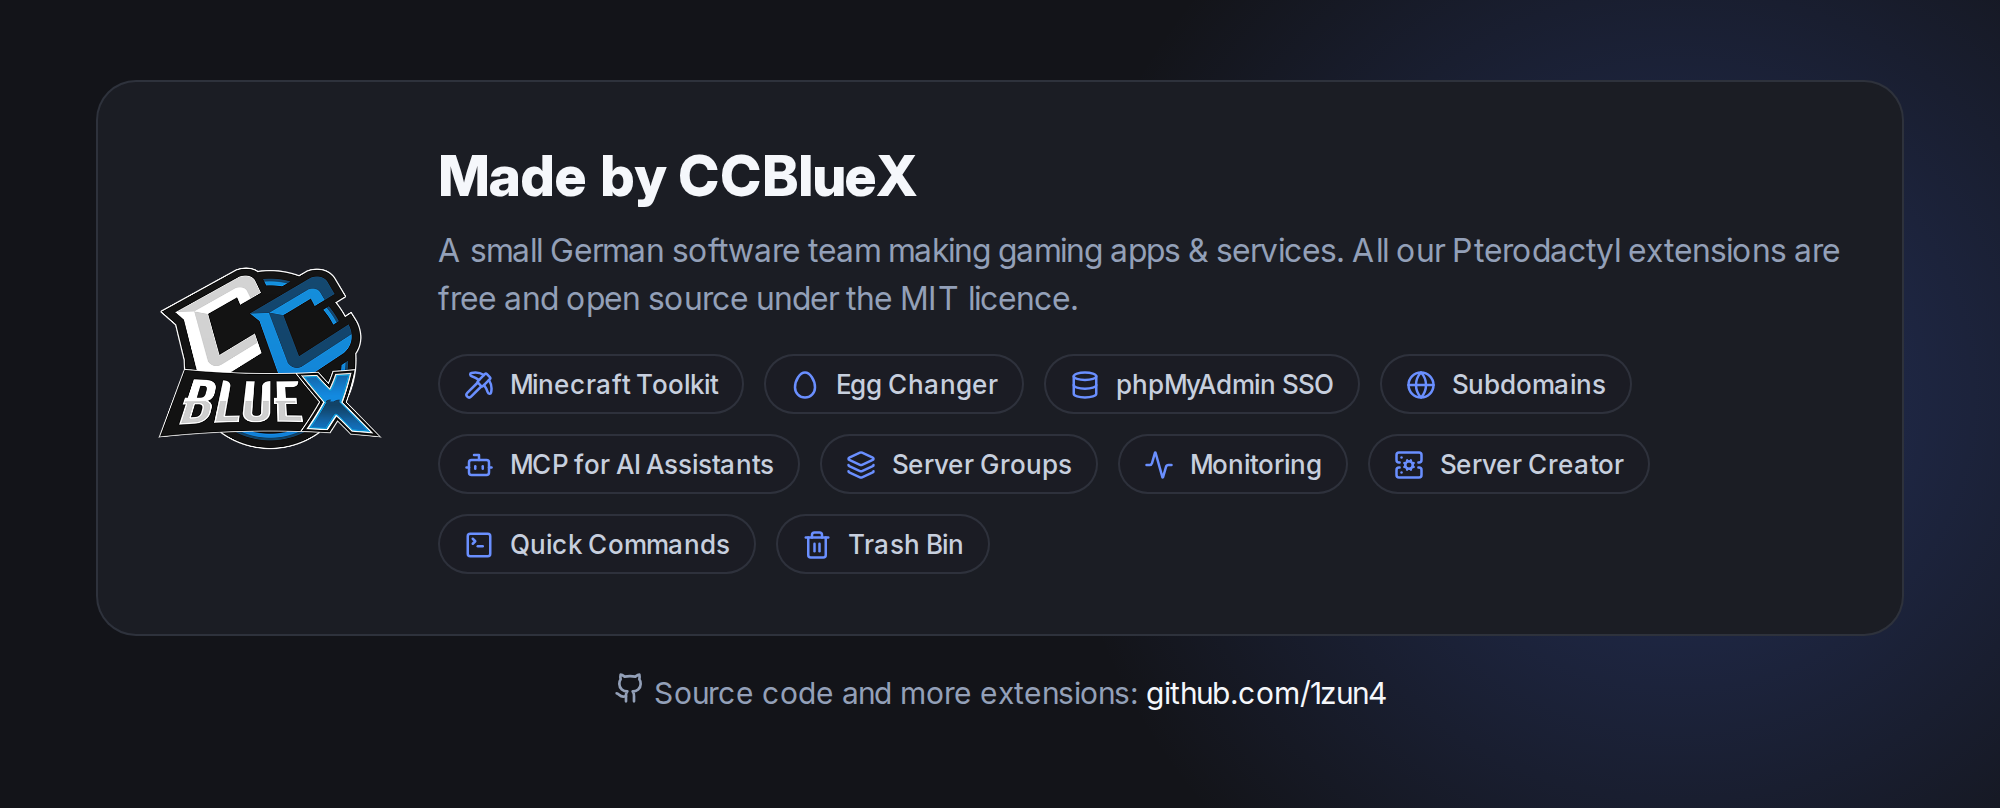
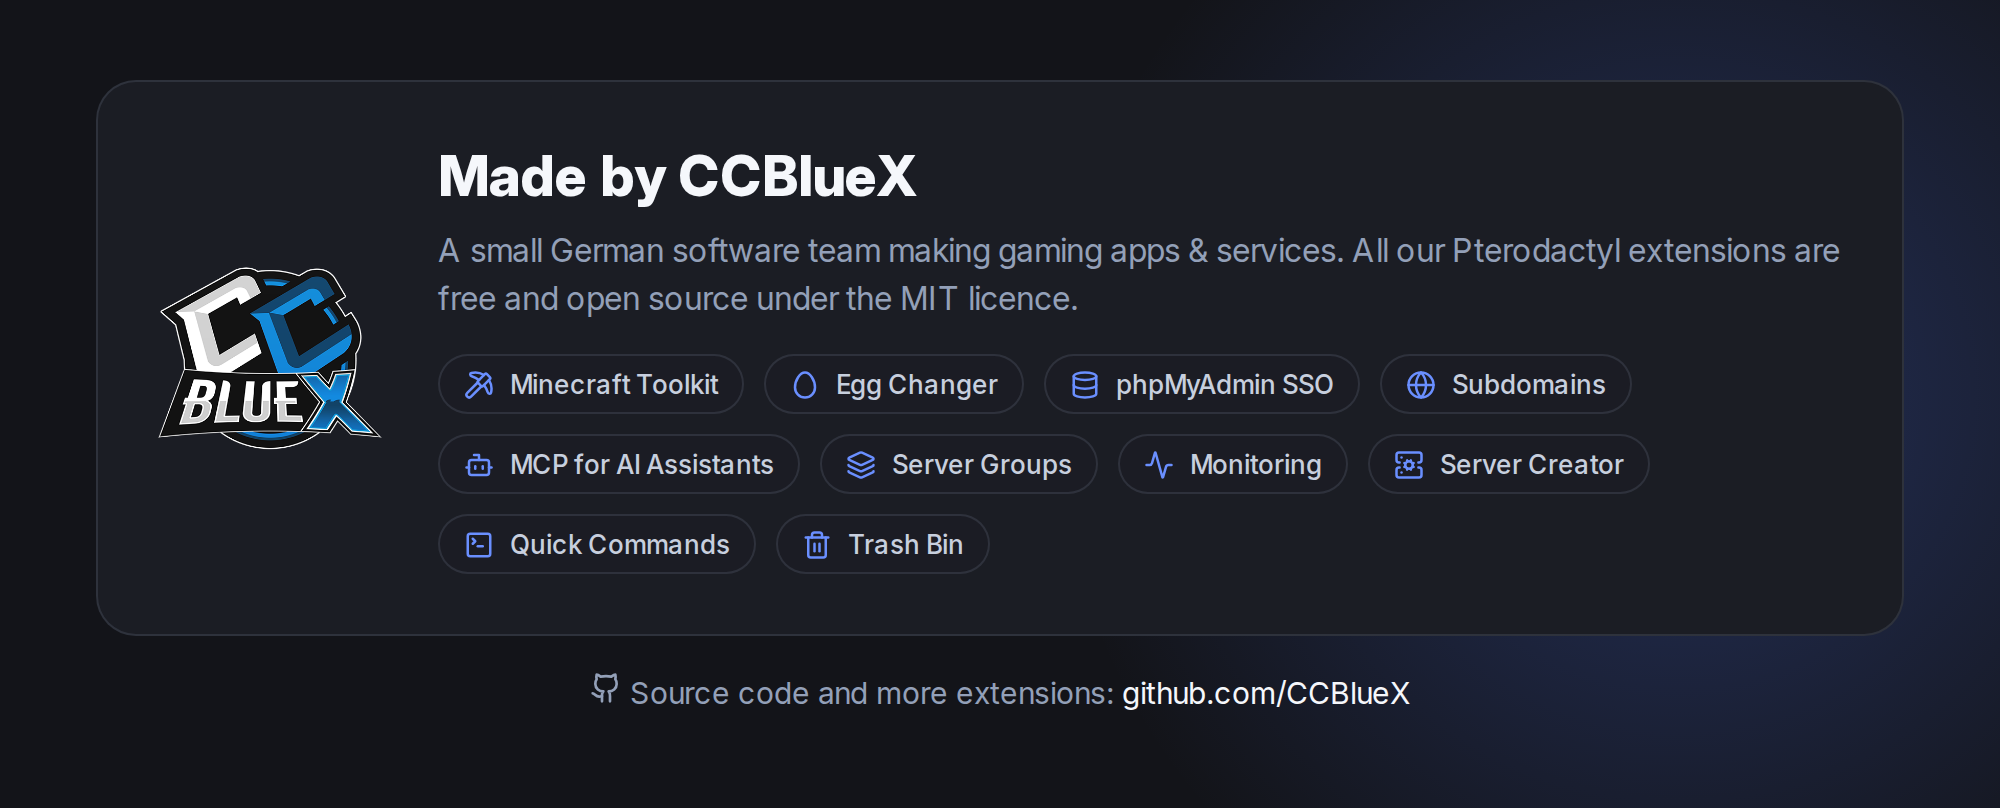
docs: move to ccbluex and hide node hostnames

Changed region(s): [[0.279, 0.8354, 0.713, 0.8973]]

diff --git a/src/Sources/Api.php b/src/Sources/Api.php
@@ -15,7 +15,7 @@ use RuntimeException;
  */
 final class Api
 {
-    public const string USER_AGENT = '1zun4/Pterodactyl-Extension-Minecraft-Content (github.com/1zun4/Pterodactyl-Extension-Minecraft-Content)';
+    public const string USER_AGENT = 'CCBlueX/Pterodactyl-Extension-Minecraft-Content (github.com/CCBlueX/Pterodactyl-Extension-Minecraft-Content)';
 
     /**
      * @param  array<string, mixed>  $query

diff --git a/README.md b/README.md
@@ -1,9 +1,9 @@
 # Minecraft Content for Pterodactyl
 
-[![Release](https://img.shields.io/github/v/release/1zun4/Pterodactyl-Extension-Minecraft-Content?style=flat-square)](https://github.com/1zun4/Pterodactyl-Extension-Minecraft-Content/releases/latest)
-[![Downloads](https://img.shields.io/github/downloads/1zun4/Pterodactyl-Extension-Minecraft-Content/total?style=flat-square)](https://github.com/1zun4/Pterodactyl-Extension-Minecraft-Content/releases)
+[![Release](https://img.shields.io/github/v/release/CCBlueX/Pterodactyl-Extension-Minecraft-Content?style=flat-square)](https://github.com/CCBlueX/Pterodactyl-Extension-Minecraft-Content/releases/latest)
+[![Downloads](https://img.shields.io/github/downloads/CCBlueX/Pterodactyl-Extension-Minecraft-Content/total?style=flat-square)](https://github.com/CCBlueX/Pterodactyl-Extension-Minecraft-Content/releases)
 [![Pterodactyl](https://img.shields.io/badge/Pterodactyl-2.0-0e4688?style=flat-square)](https://pterodactyl.io)
-[![License](https://img.shields.io/github/license/1zun4/Pterodactyl-Extension-Minecraft-Content?style=flat-square)](LICENSE)
+[![License](https://img.shields.io/github/license/CCBlueX/Pterodactyl-Extension-Minecraft-Content?style=flat-square)](LICENSE)
 
 Plugins, mods, modpacks and server versions for your Minecraft servers, in one tab.
 
@@ -11,7 +11,7 @@ Plugins, mods, modpacks and server versions for your Minecraft servers, in one t
 
 ## Install
 
-1. Download `minecraft-content-<version>.pteroext` from the [latest release](https://github.com/1zun4/Pterodactyl-Extension-Minecraft-Content/releases/latest).
+1. Download `minecraft-content-<version>.pteroext` from the [latest release](https://github.com/CCBlueX/Pterodactyl-Extension-Minecraft-Content/releases/latest).
 2. Open **Admin → Extensions**, click **Install** and pick the file.
 3. Enable it and reload the panel.
 
